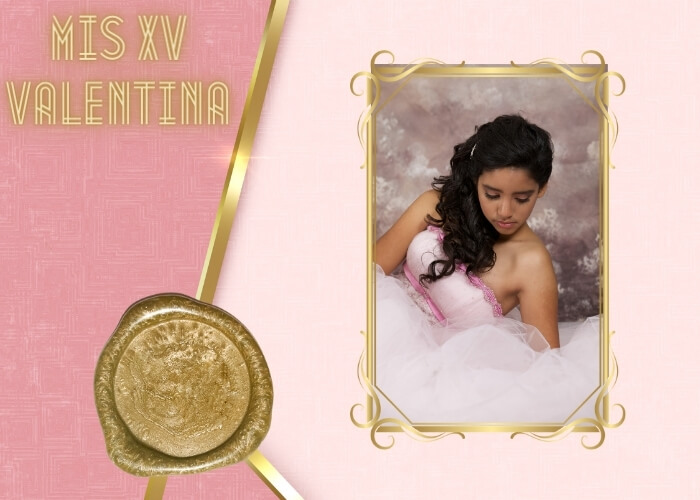
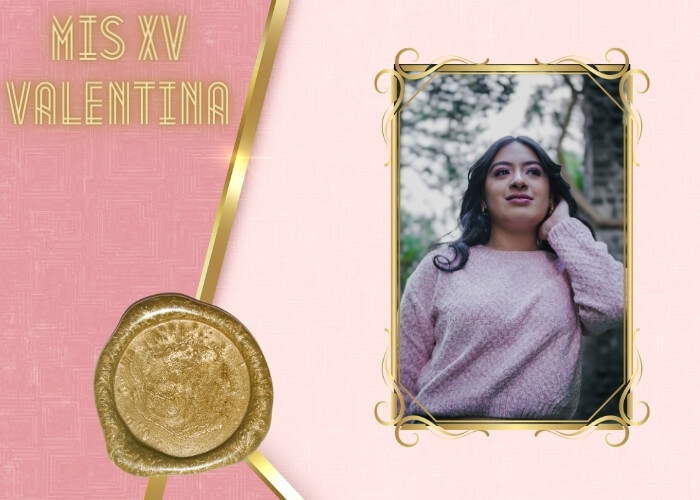
cambio imagenes

Changed region(s): [[0.48, 0.09, 0.93, 0.9]]

diff --git a/src/sections/Galeria.jsx b/src/sections/Galeria.jsx
@@ -3,6 +3,7 @@ import { flechaIzq, flechaDer } from "../assets/icons";
 import { useState } from "react";
 import CardFormato from "../components/CardFormato";
 import Separador from "../components/Separador";
+import { separador } from "../assets/icons";
 
 const Galeria = () => {
   const [slide, setSlide] = useState(0);
@@ -17,9 +18,13 @@ const Galeria = () => {
   return (
     <div className="flex flex-col justify-center items-center">
       <CardFormato titulo1="SESIÓN DE FOTOS" titulo2="Galería" />
-      <Separador width="[150px]" />
-      <div className="flex justify-center mb-5">
-        <div className="flex justify-center w-[400px] h-[400px] relative items-center md:w-[600px] md:h-[600px]">
+      <img
+        src={separador}
+        alt="Separador"
+        className="w-[150px] md:w-[300px] md:mb-11"
+      />
+      <div className="flex justify-center">
+        <div className="flex justify-center w-[400px] h-[600px] relative items-center md:w-[600px] md:h-[600px]">
           <img
             src={flechaIzq}
             alt="flecha izquierda"
@@ -34,7 +39,7 @@ const Galeria = () => {
                 alt={item.alt}
                 className={
                   slide === idx
-                    ? "border-2 border-white rounded-lg object-cover"
+                    ? "border-2 border-dark-pink rounded-lg object-cover"
                     : "hidden"
                 }
               />
@@ -54,7 +59,7 @@ const Galeria = () => {
                   onClick={() => setSlide(idx)}
                   className={
                     slide === idx
-                      ? "bg-white w-[8px] h-[8px] rounded-full border-none outline-none mx-2 cursor-pointer"
+                      ? "bg-dark-pink w-[8px] h-[8px] rounded-full border-none outline-none mx-2 cursor-pointer"
                       : "w-[8px] h-[8px] rounded-full border-none outline-none mx-2 cursor-pointer bg-black"
                   }
                 ></button>

diff --git a/src/assets/images/index.js b/src/assets/images/index.js
@@ -6,12 +6,14 @@ import esquineroIzq from "./esquinero_left_pink.png";
 import esquineroDer from "./esquinero_right_pink.png";
 import galeria1 from "./galeria1.jpg";
 import galeria2 from "./galeria2.jpg";
-import galeria3 from "./galeria3.jpg";
-import galeria4 from "./galeria4.jpg";
+import galeria3 from "./galeria3.jpeg";
+import galeria4 from "./galeria4.jpeg";
+import galeria5 from "./galeria5.jpeg";
+import galeria6 from "./galeria6.jpeg";
 import globos from "./globos.png";
-import historia2 from "./historia_2.jpg";
-import historia3 from "./historia_3.jpg";
-import hisotria1 from "./historia_uno.jpg";
+import historia2 from "./historia_2.jpeg";
+import historia3 from "./historia_3.jpeg";
+import hisotria1 from "./historia_uno.jpeg";
 import portada from "./portada.jpg";
 import iglesiaFoto from "./iglesiaFoto.jpg";
 import imgContador from "./img_contador.png";
@@ -19,7 +21,7 @@ import padres from "./padres.png";
 import padrinos from "./padrinos.png";
 import salon from "./salon.jpg";
 import separadorEspacio from "./separador_espacio.png";
-import photoBackground from "./photo_background.jpg";
+import photoBackground from "./photoBackground.jpeg";
 import sobreSello from "./sobre.jpg";
 
 export {
@@ -35,6 +37,8 @@ export {
   galeria2,
   galeria3,
   galeria4,
+  galeria5,
+  galeria6,
   globos,
   historia2,
   historia3,

diff --git a/src/sections/MiHistoria.jsx b/src/sections/MiHistoria.jsx
@@ -1,7 +1,7 @@
 import { esqIzqEspacio, esqDerEspacio } from "../assets/images";
 import CardFormato from "../components/CardFormato";
 import Separador from "../components/Separador";
-import { slideData } from "../constants";
+import { historia } from "../constants";
 
 const MiHistoria = () => (
   <section>
@@ -11,7 +11,7 @@ const MiHistoria = () => (
       <CardFormato titulo1="RECUERDOS" titulo2="Mi Historia" />
       <Separador />
       <div className="xl:flex xl:flex-row xl:gap-8 xl:px-8 xl:flex-wrap justify-center items-center">
-        {slideData.map((item, idx) => {
+        {historia.map((item, idx) => {
           return (
             <div key={idx} className="flex justify-center items-center mt-5">
               <img

diff --git a/src/constants/index.js b/src/constants/index.js
@@ -18,6 +18,8 @@ import {
   galeria2,
   galeria3,
   galeria4,
+  galeria5,
+  galeria6,
   historia2,
   historia3,
   hisotria1,
@@ -42,7 +44,7 @@ export const ubicaciones = [
   {
     img: salon,
     icon: recepcion,
-    titulo1: "RECEPCION",
+    titulo1: "RECEPCIÓN",
     titulo2: "Salón Dalias Paris",
     icon2: reloj,
     hora: "15:00",
@@ -116,6 +118,16 @@ export const slideData = [
   {
     id: 4,
     img: galeria4,
+    alt: "Foto 4",
+  },
+  {
+    id: 5,
+    img: galeria5,
+    alt: "Foto 4",
+  },
+  {
+    id: 6,
+    img: galeria6,
     alt: "Foto 4",
   },
 ];

diff --git a/vite.config.js b/vite.config.js
@@ -4,5 +4,5 @@ import react from "@vitejs/plugin-react";
 // https://vitejs.dev/config/
 export default defineConfig({
   plugins: [react()],
-  base: "/invitacion_pink/",
+  base: "inv_prueba/",
 });
